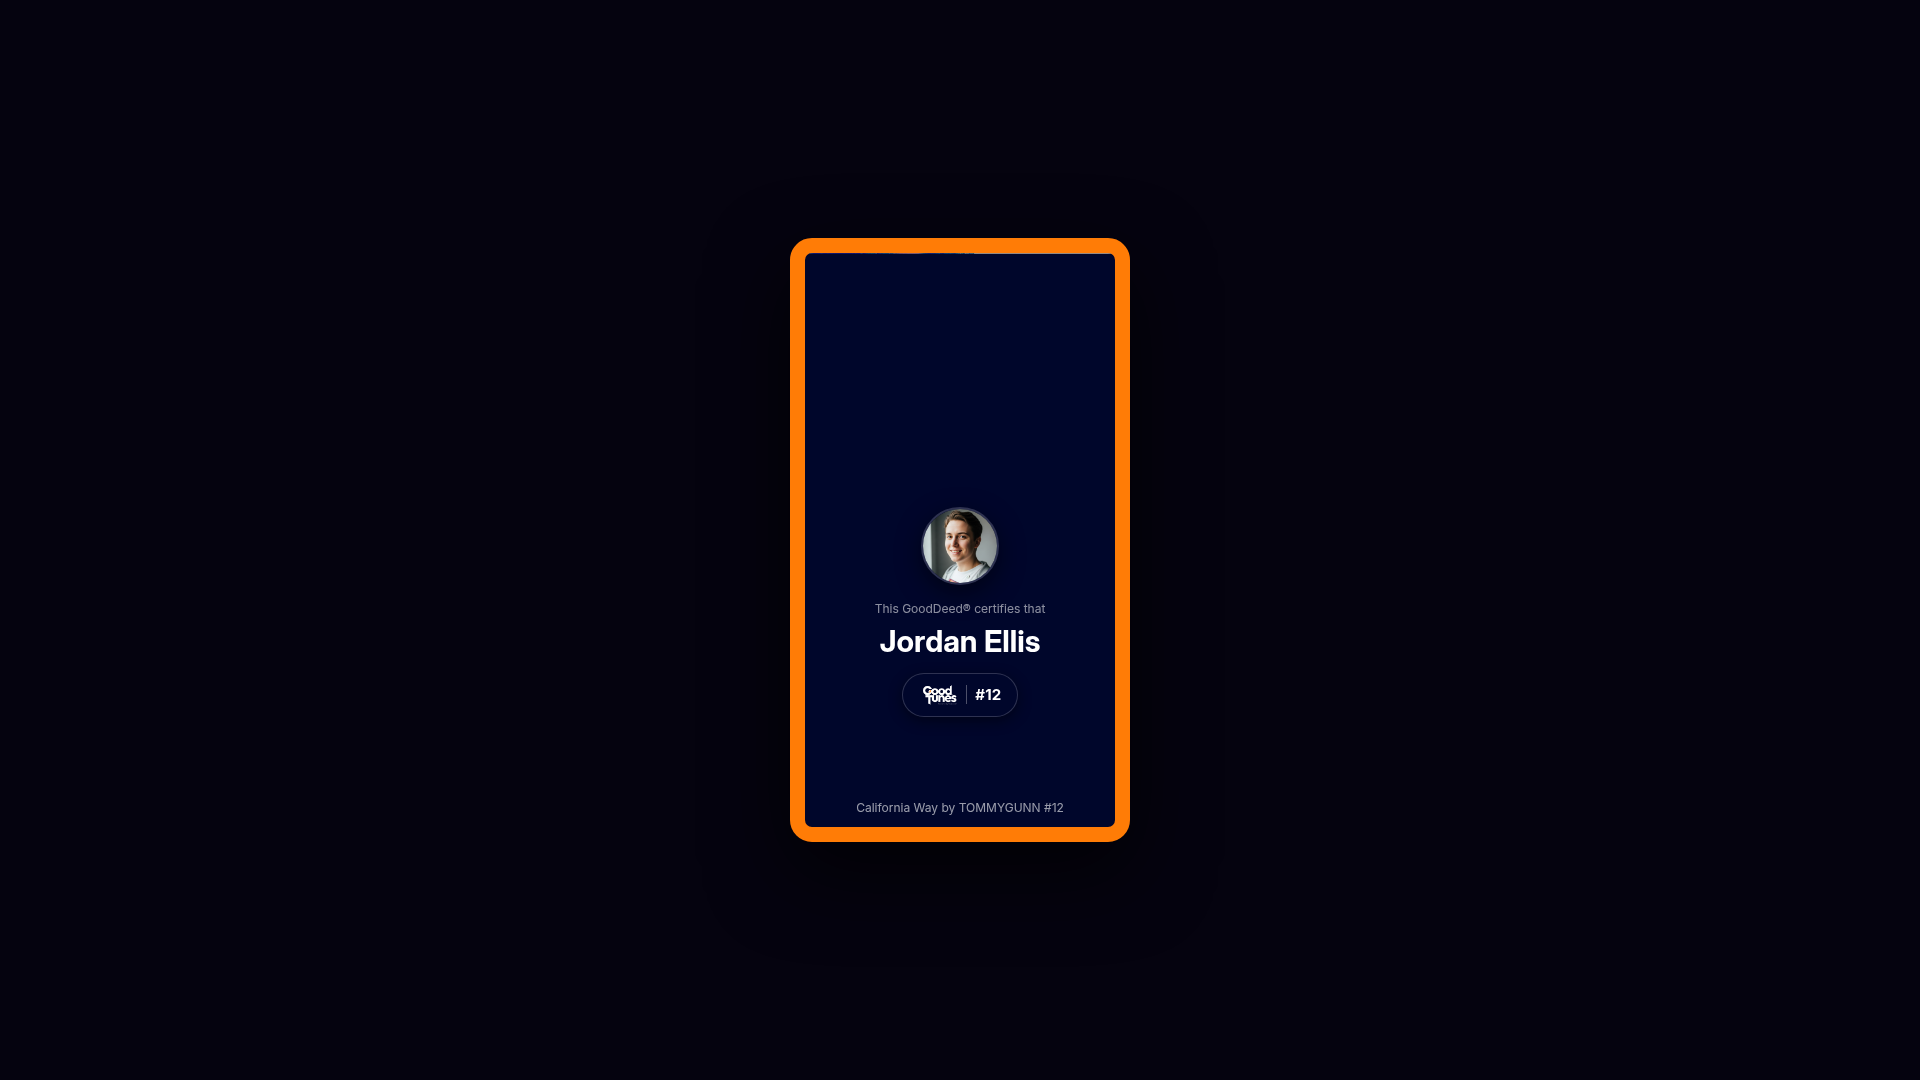
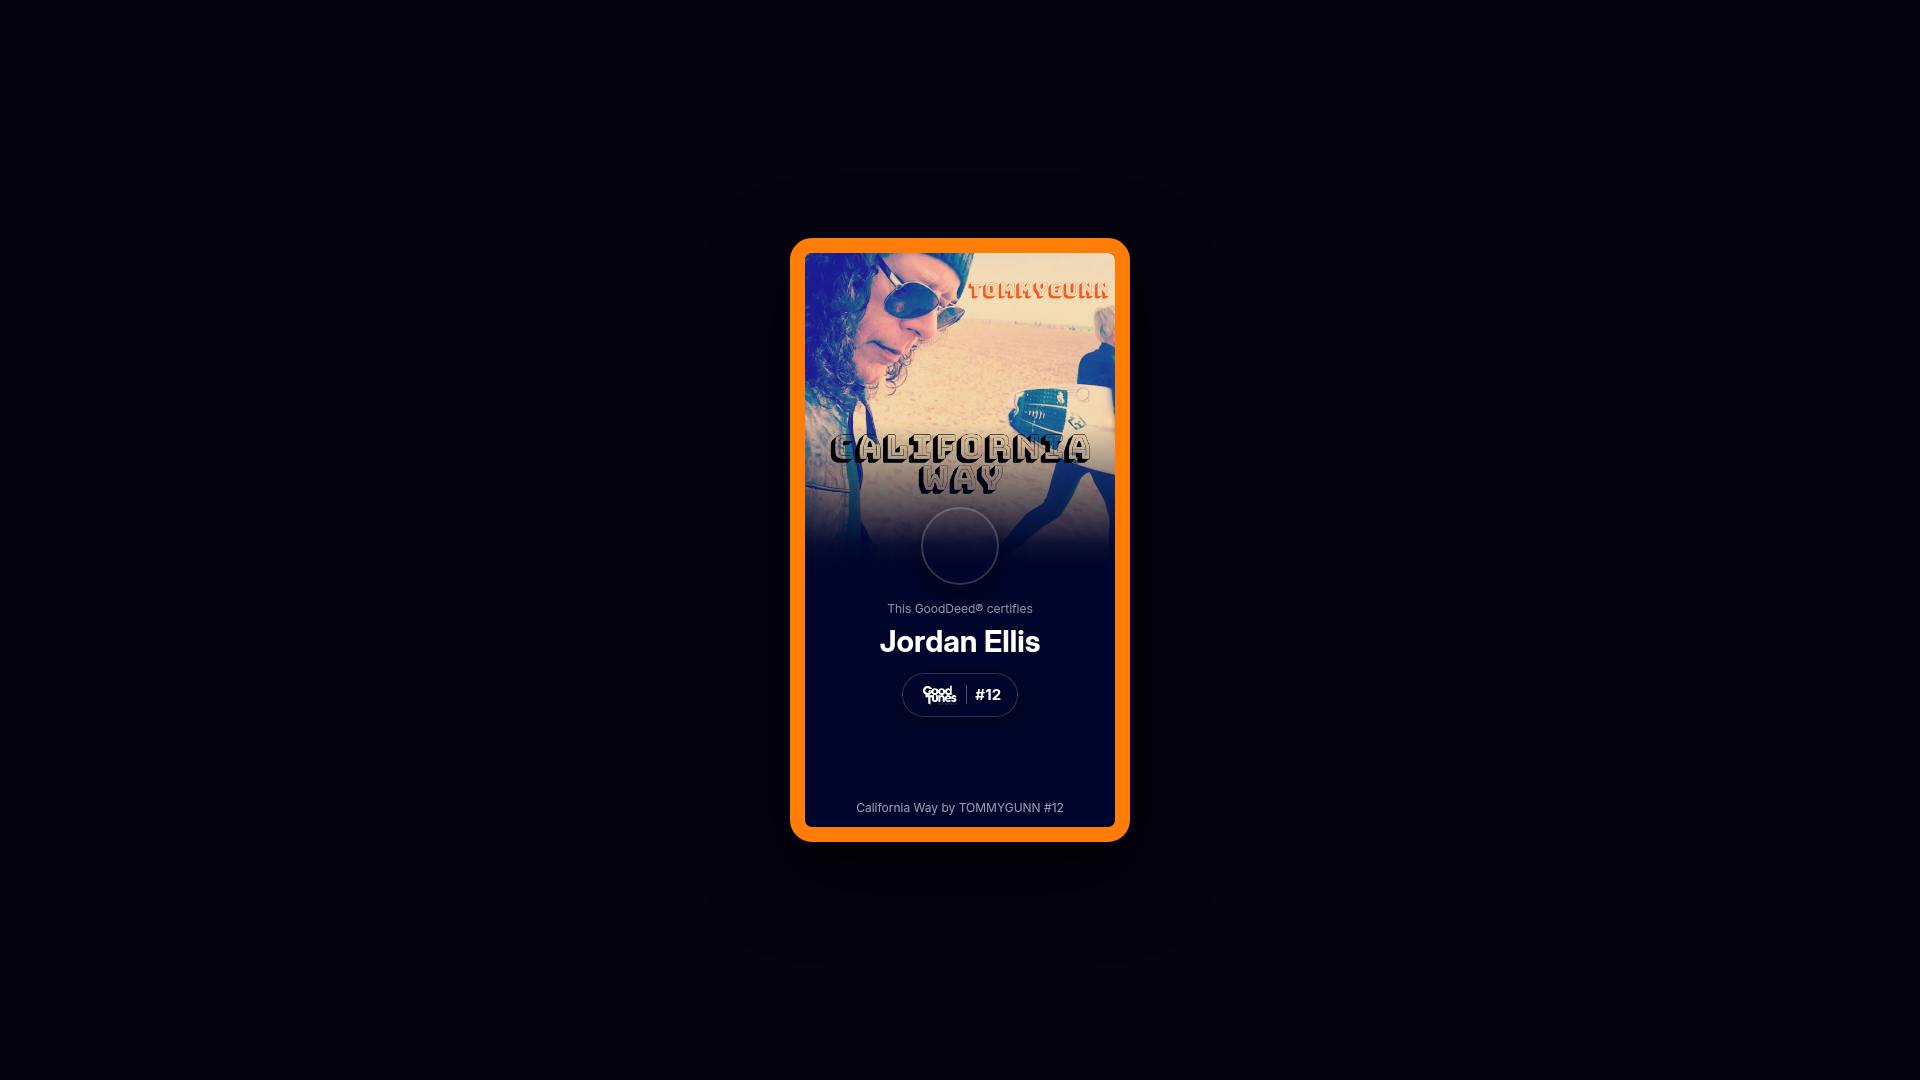
Update certification text and document share-card specifications
Remove the word "that" from the certification text and add detailed specifications for the GoodDeed share-card to the design system documentation.

Replit-Commit-Author: Agent
Replit-Commit-Session-Id: 05c2a2e8-5b06-4806-a9d5-d257ed0dfe21
Replit-Commit-Checkpoint-Type: full_checkpoint
Replit-Commit-Event-Id: 2e4b40a4-3ca4-44e8-9bed-c030fa757364
Replit-Commit-Screenshot-Url: https://storage.googleapis.com/screenshot-production-us-central1/5293185b-8e25-4d4f-b8b2-dc5494b9adc6/05c2a2e8-5b06-4806-a9d5-d257ed0dfe21/JtdCKaV
Replit-Helium-Checkpoint-Created: true

Changed region(s): [[0.4062, 0.2139, 0.5938, 0.5806]]

diff --git a/artifacts/mockup-sandbox/src/components/mockups/gooddeed-cert/StoriesBordered.tsx b/artifacts/mockup-sandbox/src/components/mockups/gooddeed-cert/StoriesBordered.tsx
@@ -93,7 +93,7 @@ export function BorderedStoryCard({ overlay, radius = 22 }: { overlay?: ReactNod
           <img src={ownerPhoto} alt={ownerName} className="w-full h-full object-cover block" />
         </div>
 
-        <p className="text-white/55 text-xs leading-snug mt-4">This GoodDeed® certifies that</p>
+        <p className="text-white/55 text-xs leading-snug mt-4">This GoodDeed® certifies</p>
         <p
           className="text-white font-bold leading-tight mt-1.5 max-w-full whitespace-nowrap"
           style={{ fontSize: nameFontSize(ownerName) }}

diff --git a/docs/design-system.md b/docs/design-system.md
@@ -10,6 +10,16 @@
 - Apple-Music-style large headers, 44×44 minimum touch targets
 - Songs use **heart** icon (`#FF5470`); artists use **star** icon
 
+## GoodDeed® share-card (social) — approved spec
+
+The GoodDeed share-card has one approved hero format: the **orange-frame Story** (Instagram 9:16, 1080×1920). Locked decisions:
+
+- **Orange frame.** A solid GoodTunes-orange border runs edge-to-edge (`--brand-orange`, never inline the hex; ~15px on the 340-wide mockup). This is the one sanctioned use of orange — it makes the card instantly recognizable as a GoodDeed.
+- **Corner radius — subtly rounded, not square.** ≈ an Instagram feed-photo curve (mockup value `r=22` on a 340-wide card; scale to width in the real renderer). Round **concentrically** — the orange frame and the inner art/navy round together (single `border-radius` on the clipping container). Round only when the card is consumed as a **floating / shared image**; if it is ever uploaded **full-bleed** as the whole Story background, keep corners square (the device clips them anyway).
+- **No Meta HIG to match.** Instagram publishes no corner-radius spec for Story content — Stories are full-bleed, and the rounding you see is the device screen + IG's own UI chrome painted over the asset. The only Meta constraints that bind us are the **1080×1920 / 9:16** canvas and the **top/bottom safe zones** (keep key content out of them).
+- **Caption lead-in.** "This GoodDeed® certifies" → owner name (no "that"; the cert number rides the pill and the album/artist rides the bottom caption).
+- **Source of truth.** Mockup: `artifacts/mockup-sandbox/src/components/mockups/gooddeed-cert/StoriesBordered.tsx`. Prod-renderer port target: `server/certOgImage.ts` + `/share/cert` (not yet ported).
+
 ## Two surfaces, shared vocabulary, distinct chrome
 
 Mobile player and desktop admin share **icon glyphs** (Lucide for UI chrome, `react-icons/si` for company logos), **brand colors**, and **product concepts** (favorite = heart, lyrics = `Mic2`, etc.) — but use different button treatments because they live on different backgrounds and serve different users.
